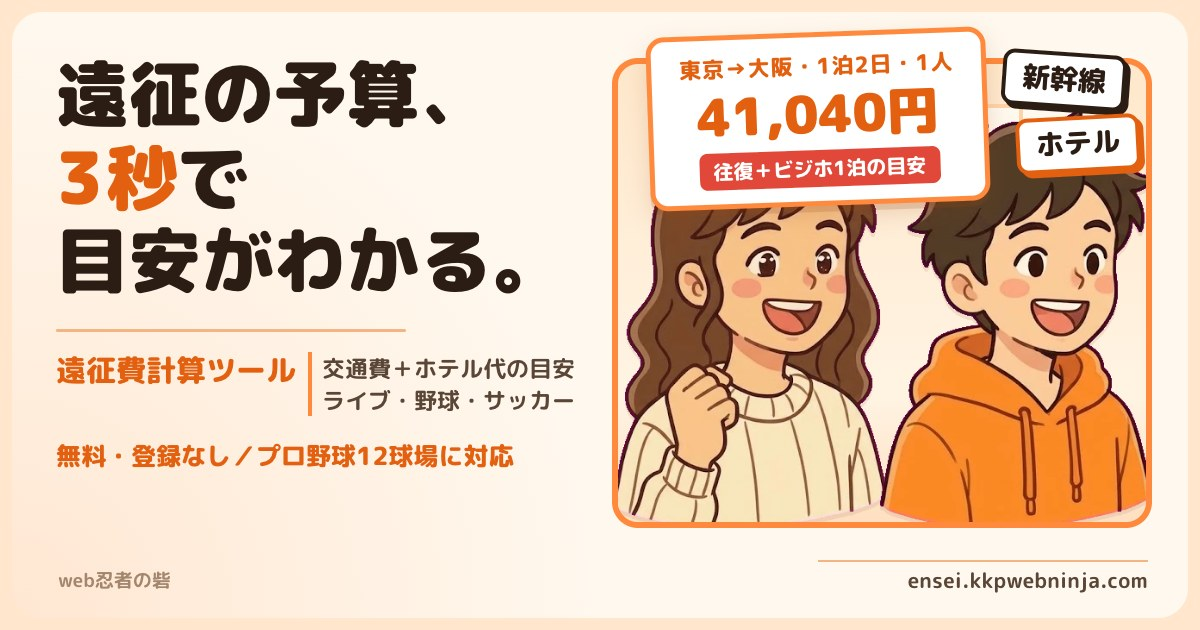
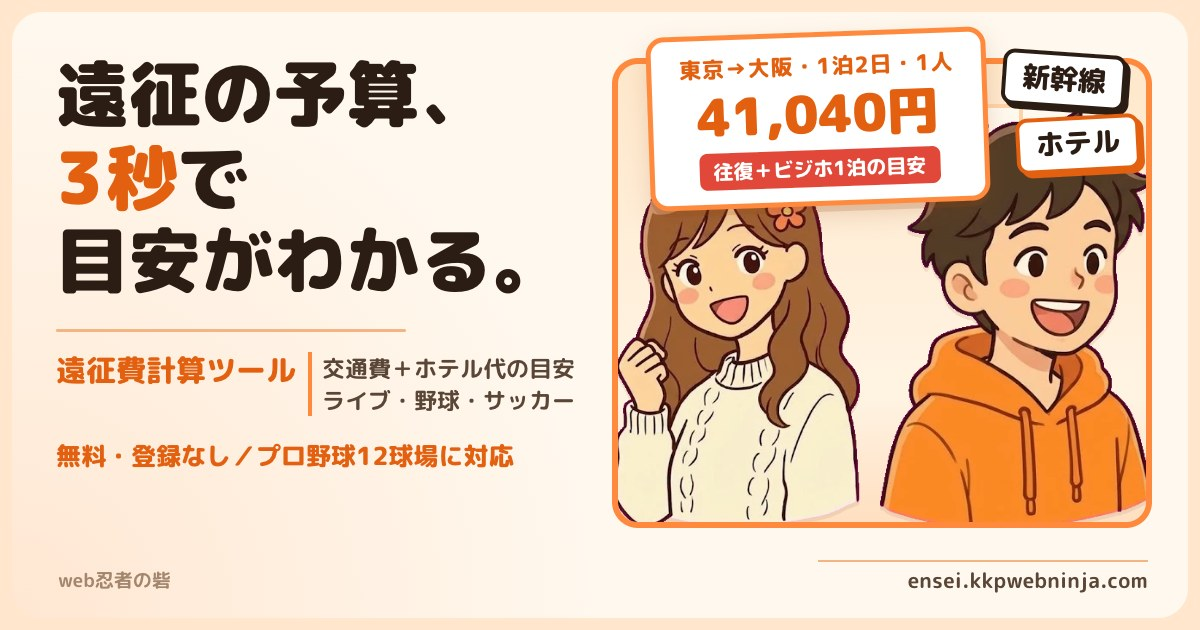
カード画像（OGP）の女の子を、ひと目で女の子と分かる絵に差し替える
男の子と同じ顔に見えていたため、kkp-kit の女の子の素材を作り直して書き出し直した（kkp-kit 978018e）。
og:image・twitter:image の ?d= を 20261023 にして、SNS に新しい画像を読み直させる。

Changed region(s): [[0.4933, 0.3016, 0.74, 0.8444]]

diff --git a/index.html b/index.html
@@ -16,8 +16,8 @@
 <meta property="og:title" content="遠征費計算ツール｜ライブ・野球・サッカー観戦の交通費＋ホテル代の目安">
 <meta property="og:description" content="出発地と会場を選ぶだけ。新幹線・飛行機・バス＋ホテル代の遠征費を3秒で概算。無料・登録不要。">
 <meta property="og:url" content="https://ensei.kkpwebninja.com/">
-<meta property="og:image" content="https://ensei.kkpwebninja.com/ogp.jpg?d=20261022">
-<meta name="twitter:image" content="https://ensei.kkpwebninja.com/ogp.jpg?d=20261022">
+<meta property="og:image" content="https://ensei.kkpwebninja.com/ogp.jpg?d=20261023">
+<meta name="twitter:image" content="https://ensei.kkpwebninja.com/ogp.jpg?d=20261023">
 <meta property="og:site_name" content="遠征費計算ツール｜web忍者の砦">
 <meta property="og:locale" content="ja_JP">
 <meta name="twitter:card" content="summary_large_image">

diff --git a/scripts/intake_transform.py b/scripts/intake_transform.py
@@ -3,7 +3,7 @@ import re
 p='index.html'; s=open(p,encoding='utf-8').read()
 BASE='https://ensei.kkpwebninja.com/'
 s=s.replace('<link rel="canonical" href="https://kkpwebninja.com/ensei/">','<link rel="canonical" href="'+BASE+'">\n<meta name="theme-color" content="#ff8a3d">\n<!-- WEBNINJA_UNIFIED_FAVICON -->\n<link rel="icon" type="image/png" sizes="32x32" href="/favicon.png">\n<link rel="icon" type="image/png" sizes="192x192" href="/favicon-192.png">\n<link rel="apple-touch-icon" sizes="180x180" href="/apple-touch-icon.png">')
-s=s.replace('<meta property="og:url" content="https://kkpwebninja.com/ensei/">','<meta property="og:url" content="'+BASE+'">\n<meta property="og:image" content="'+BASE+'ogp.jpg?d=20261022">\n<meta name="twitter:image" content="'+BASE+'ogp.jpg?d=20261022">')
+s=s.replace('<meta property="og:url" content="https://kkpwebninja.com/ensei/">','<meta property="og:url" content="'+BASE+'">\n<meta property="og:image" content="'+BASE+'ogp.jpg?d=20261023">\n<meta name="twitter:image" content="'+BASE+'ogp.jpg?d=20261023">')
 s=s.replace('<meta property="og:site_name" content="kkpwebninja.com">','<meta property="og:site_name" content="遠征費計算ツール｜web忍者の砦">')
 s=s.replace('https://kkpwebninja.com/ensei/',BASE)
 s=s.replace('"author": {"@type": "Person", "name": "KKP", "url": "https://kkpwebninja.com/"}','"author": {"@type": "Organization", "name": "web忍者の砦", "url": "https://kkpwebninja.com/"}')
